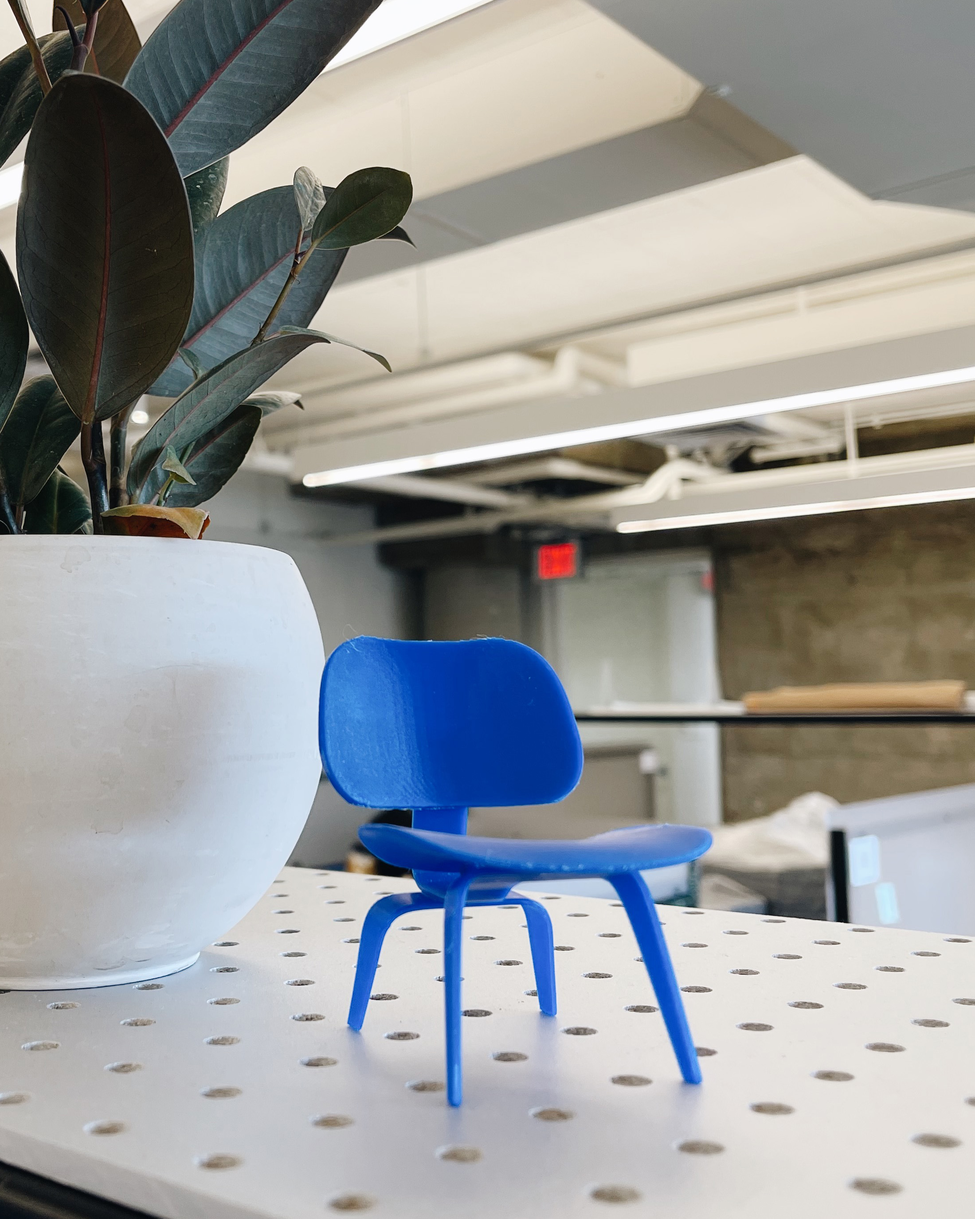
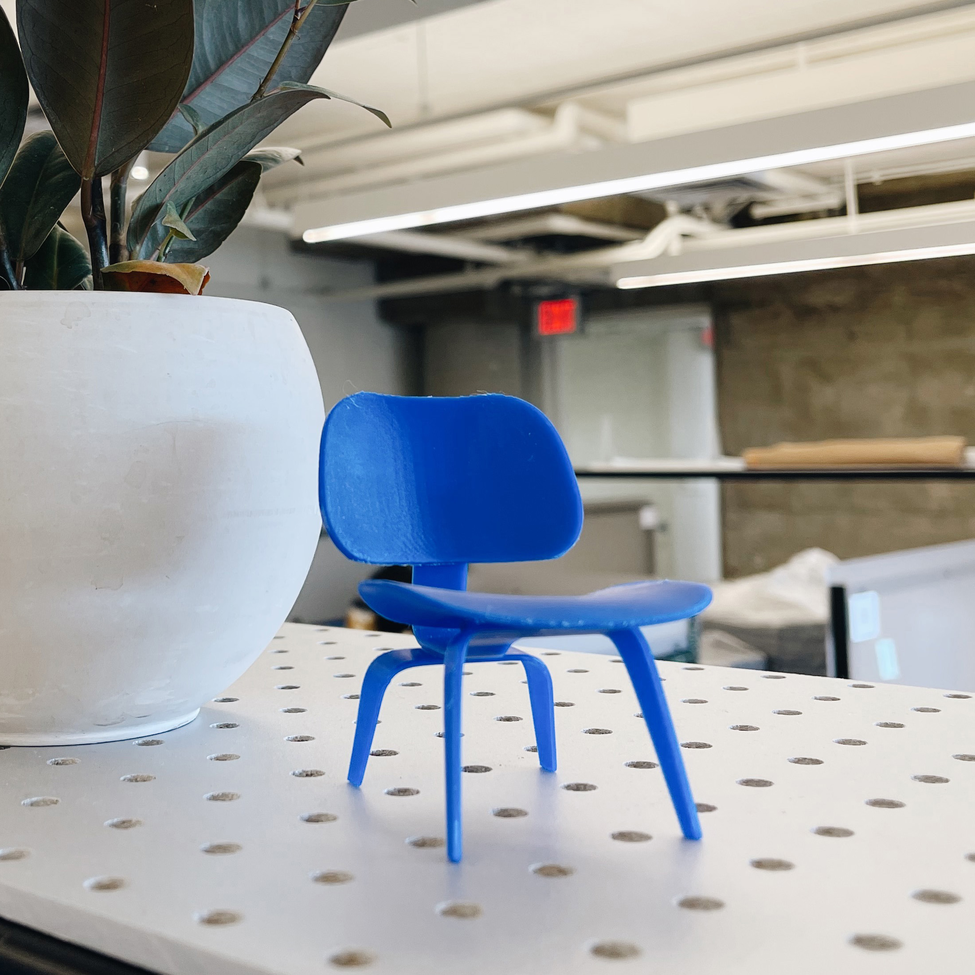
Week 4 (new photos)

diff --git a/04_index.html b/04_index.html
@@ -227,11 +227,14 @@
 
      <div class="container">
         <div class="row mb-5 align-items-center">
-          <div class="col-md-6" data-aos="fade-up">
-            <img src="04_3D/chairfinal1.jpg" alt="Image" class="img-fluid">
+          <div class="col-md-4" data-aos="fade-up">
+            <img src="04_3D/chairfinal3.jpg" alt="Image" class="img-fluid">
           </div>
-          <div class="col-md-6" data-aos="fade-up">
+          <div class="col-md-4" data-aos="fade-up">
             <img src="04_3D/chairfinal2.jpg" alt="Image" class="img-fluid">
+          </div>
+          <div class="col-md-4" data-aos="fade-up">
+            <img src="04_3D/chairfinal4.jpg" alt="Image" class="img-fluid">
           </div>
         </div>
 
